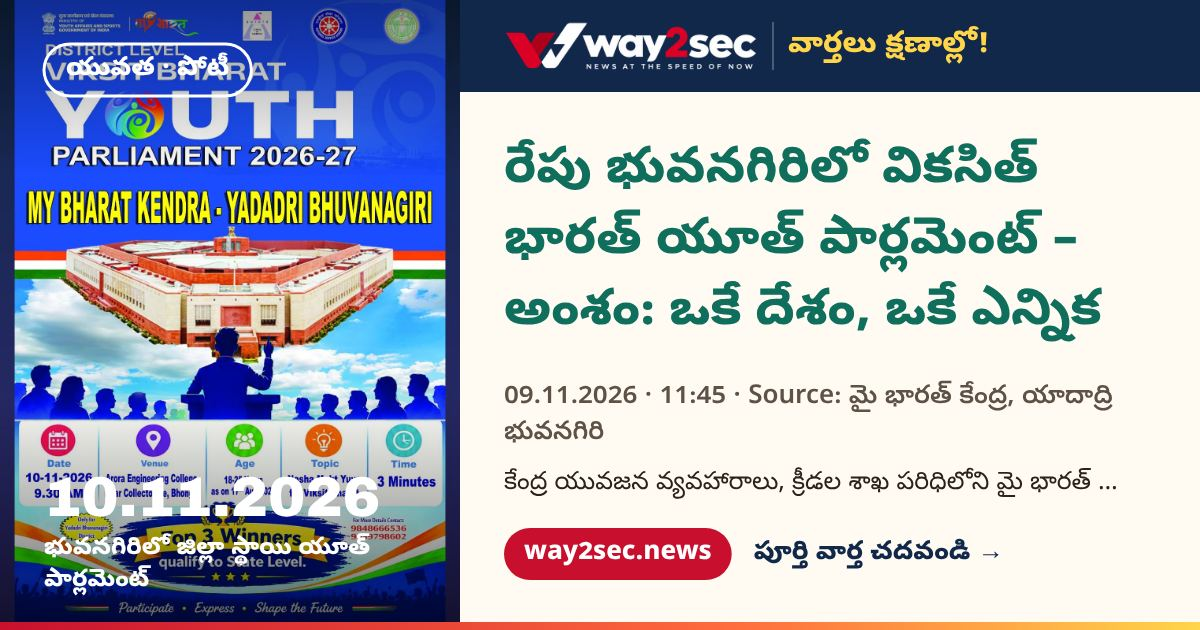
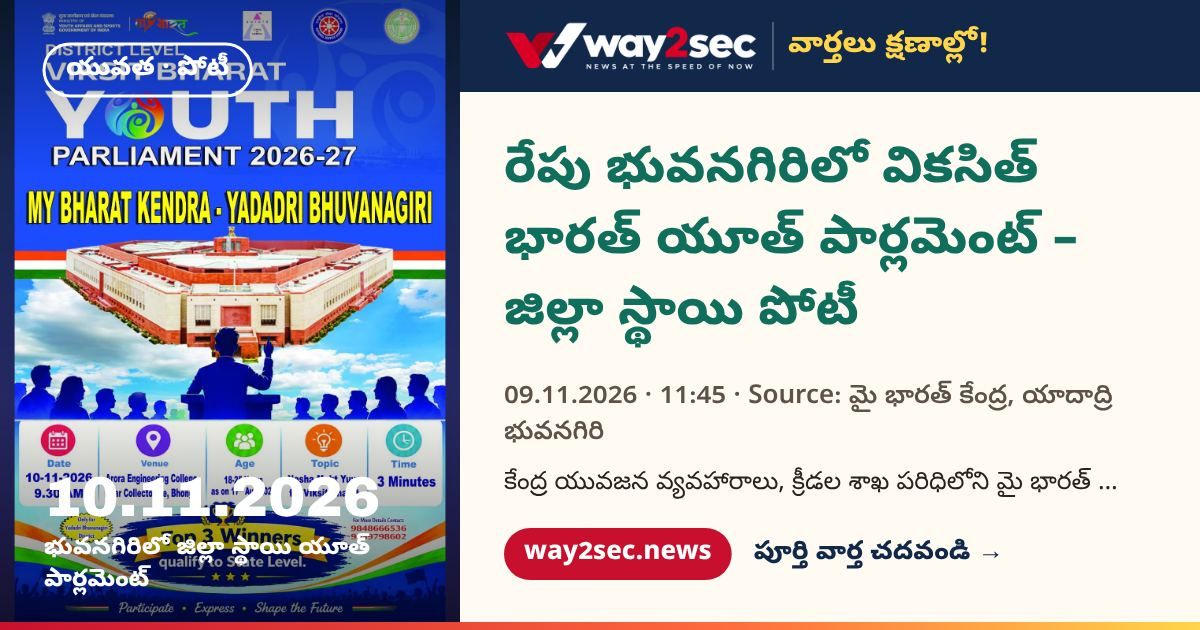
Youth Parliament: list both topics (One Nation One Election; Nasha Mukt Yuva for Viksit Bharat)
Claude-Session: https://claude.ai/code/session_018iQhkKZbEjnammo2CGfuLB

Changed region(s): [[0.4008, 0.4524, 0.925, 0.573]]

diff --git a/s/1nhx9ls.html b/s/1nhx9ls.html
@@ -1,16 +1,16 @@
 <!doctype html><html lang="te"><head><meta charset="utf-8">
 <meta name="viewport" content="width=device-width,initial-scale=1,viewport-fit=cover">
-<title>రేపు భువనగిరిలో వికసిత్ భారత్ యూత్ పార్లమెంట్ – అంశం: ఒకే దేశం, ఒకే ఎన్నిక | Way2Sec</title>
+<title>రేపు భువనగిరిలో వికసిత్ భారత్ యూత్ పార్లమెంట్ – జిల్లా స్థాయి పోటీ | Way2Sec</title>
 <meta name="description" content="కేంద్ర యువజన వ్యవహారాలు, క్రీడల శాఖ పరిధిలోని మై భారత్ కేంద్ర, యాదాద్రి భువనగిరి ఆధ్వర్యంలో జిల్లా స్థాయి వికసిత్ భారత్ యూత్ పార్లమెంట్ 2026-27 పోటీ మంగళవారం (1">
 <meta property="og:type" content="article"><meta property="og:site_name" content="Way2Sec News">
-<meta property="og:title" content="రేపు భువనగిరిలో వికసిత్ భారత్ యూత్ పార్లమెంట్ – అంశం: ఒకే దేశం, ఒకే ఎన్నిక">
+<meta property="og:title" content="రేపు భువనగిరిలో వికసిత్ భారత్ యూత్ పార్లమెంట్ – జిల్లా స్థాయి పోటీ">
 <meta property="og:description" content="కేంద్ర యువజన వ్యవహారాలు, క్రీడల శాఖ పరిధిలోని మై భారత్ కేంద్ర, యాదాద్రి భువనగిరి ఆధ్వర్యంలో జిల్లా స్థాయి వికసిత్ భారత్ యూత్ పార్లమెంట్ 2026-27 పోటీ మంగళవారం (1">
 <meta property="og:url" content="https://way2sec.news/s/1nhx9ls">
 <meta property="og:image" content="https://way2sec.news/cards/1nhx9ls.jpg"><meta property="og:image:secure_url" content="https://way2sec.news/cards/1nhx9ls.jpg"><meta property="og:image:type" content="image/jpeg"><meta property="og:image:width" content="1200"><meta property="og:image:height" content="630"><meta property="og:image" content="https://raw.githubusercontent.com/WAY2SEC/way2sec.github.io/main/cards/1nhx9ls.jpg">
 <meta name="twitter:card" content="summary_large_image"><meta name="twitter:image" content="https://raw.githubusercontent.com/WAY2SEC/way2sec.github.io/main/cards/1nhx9ls.jpg">
 <meta name="theme-color" content="#12284A"><link rel="icon" href="/favicon-48.png"><link rel="manifest" href="/manifest.webmanifest">
 <meta name="google-adsense-account" content="ca-pub-5189488674224327"><script async src="https://www.googletagmanager.com/gtag/js?id=G-2179H3TXWP"></script><script>window.dataLayer=window.dataLayer||[];function gtag(){dataLayer.push(arguments);}gtag('js',new Date());gtag('config','G-2179H3TXWP');</script><script async src="https://pagead2.googlesyndication.com/pagead/js/adsbygoogle.js?client=ca-pub-5189488674224327" crossorigin="anonymous"></script>
-<script type="application/ld+json">{"@context": "https://schema.org", "@type": "NewsArticle", "headline": "రేపు భువనగిరిలో వికసిత్ భారత్ యూత్ పార్లమెంట్ – అంశం: ఒకే దేశం, ఒకే ఎన్నిక", "image": ["https://raw.githubusercontent.com/WAY2SEC/way2sec.github.io/main/cards/1nhx9ls.jpg"], "datePublished": "2026-11-09T11:45:00+05:30", "dateModified": "2026-11-09T11:45:00+05:30", "inLanguage": "te", "author": {"@type": "Organization", "name": "Way2Sec", "url": "https://way2sec.news"}, "publisher": {"@type": "Organization", "name": "Way2Sec", "logo": {"@type": "ImageObject", "url": "https://way2sec.news/icon-512.png"}}, "mainEntityOfPage": "https://way2sec.news/s/1nhx9ls"}</script><script type="application/json" id="w2sTr">{"en": {"h": "Viksit Bharat Youth Parliament in Bhongir tomorrow – topic: One Nation, One Election", "p": "The district-level Viksit Bharat Youth Parliament 2026-27, organised by My Bharat Kendra, Yadadri Bhuvanagiri (Ministry of Youth Affairs and Sports), will be held on Tuesday (10.11.2026) at 9:30 am at Aurora Engineering College near the Collectorate, Bhongir. Topic: One Nation – One Election. Youth of Yadadri Bhuvanagiri district aged 18–25 (as on 17.08.2026) can take part. Each speaker gets 3 minutes; the top 3 winners qualify for the state level.", "pts": ["📅 10.11.2026, 9:30 am · 📍 Aurora Engineering College, near Collectorate, Bhongir", "🎤 Topic: One Nation – One Election · 3-minute speech", "👥 Age 18–25, Yadadri Bhuvanagiri district only · 🏆 Top 3 go to state level", "📞 98486 66536 · 90597 98602"], "why": "A chance for district youth to speak on national issues and reach the state level.", "cat": "Youth · Competition", "stat": "10.11.2026", "statl": "District-level Youth Parliament in Bhongir"}, "hi": {"h": "कल भुवनगिरि में विकसित भारत युवा संसद – विषय: एक राष्ट्र, एक चुनाव", "p": "युवा कार्यक्रम एवं खेल मंत्रालय के माय भारत केंद्र, यादाद्री भुवनगिरि की ओर से ज़िला स्तरीय विकसित भारत युवा संसद 2026-27 मंगलवार (10.11.2026) सुबह 9:30 बजे भुवनगिरि कलेक्टरेट के पास अरोरा इंजीनियरिंग कॉलेज में होगी। विषय: एक राष्ट्र – एक चुनाव। यादाद्री भुवनगिरि ज़िले के 18–25 वर्ष (17.08.2026 तक) के युवा भाग ले सकते हैं। हर वक्ता को 3 मिनट मिलेंगे; शीर्ष 3 विजेता राज्य स्तर पर जाएँगे।", "pts": ["📅 10.11.2026, सुबह 9:30 · 📍 अरोरा इंजीनियरिंग कॉलेज, कलेक्टरेट के पास, भुवनगिरि", "🎤 विषय: एक राष्ट्र – एक चुनाव · 3 मिनट का भाषण", "👥 आयु 18–25, केवल यादाद्री भुवनगिरि ज़िला · 🏆 शीर्ष 3 राज्य स्तर पर", "📞 98486 66536 · 90597 98602"], "why": "ज़िले के युवाओं के लिए राष्ट्रीय मुद्दों पर बोलने और राज्य स्तर तक पहुँचने का मौक़ा।", "cat": "युवा · प्रतियोगिता", "stat": "10.11.2026", "statl": "भुवनगिरि में ज़िला स्तरीय युवा संसद"}}</script>
+<script type="application/ld+json">{"@context": "https://schema.org", "@type": "NewsArticle", "headline": "రేపు భువనగిరిలో వికసిత్ భారత్ యూత్ పార్లమెంట్ – జిల్లా స్థాయి పోటీ", "image": ["https://raw.githubusercontent.com/WAY2SEC/way2sec.github.io/main/cards/1nhx9ls.jpg"], "datePublished": "2026-11-09T11:45:00+05:30", "dateModified": "2026-11-09T11:45:00+05:30", "inLanguage": "te", "author": {"@type": "Organization", "name": "Way2Sec", "url": "https://way2sec.news"}, "publisher": {"@type": "Organization", "name": "Way2Sec", "logo": {"@type": "ImageObject", "url": "https://way2sec.news/icon-512.png"}}, "mainEntityOfPage": "https://way2sec.news/s/1nhx9ls"}</script><script type="application/json" id="w2sTr">{"en": {"h": "Viksit Bharat Youth Parliament in Bhongir tomorrow – district-level competition", "p": "The district-level Viksit Bharat Youth Parliament 2026-27, organised by My Bharat Kendra, Yadadri Bhuvanagiri (Ministry of Youth Affairs and Sports), will be held on Tuesday (10.11.2026) at 9:30 am at Aurora Engineering College near the Collectorate, Bhongir. Topics: One Nation – One Election; Nasha Mukt Yuva for Viksit Bharat (drug-free youth). Youth of Yadadri Bhuvanagiri district aged 18–25 (as on 17.08.2026) can take part. Each speaker gets 3 minutes; the top 3 winners qualify for the state level.", "pts": ["📅 10.11.2026, 9:30 am · 📍 Aurora Engineering College, near Collectorate, Bhongir", "🎤 Topics: One Nation – One Election · Nasha Mukt Yuva for Viksit Bharat · 3-minute speech", "👥 Age 18–25, Yadadri Bhuvanagiri district only · 🏆 Top 3 go to state level", "📞 98486 66536 · 90597 98602"], "why": "A chance for district youth to speak on national issues and reach the state level.", "cat": "Youth · Competition", "stat": "10.11.2026", "statl": "District-level Youth Parliament in Bhongir"}, "hi": {"h": "कल भुवनगिरि में विकसित भारत युवा संसद – ज़िला स्तरीय प्रतियोगिता", "p": "युवा कार्यक्रम एवं खेल मंत्रालय के माय भारत केंद्र, यादाद्री भुवनगिरि की ओर से ज़िला स्तरीय विकसित भारत युवा संसद 2026-27 मंगलवार (10.11.2026) सुबह 9:30 बजे भुवनगिरि कलेक्टरेट के पास अरोरा इंजीनियरिंग कॉलेज में होगी। विषय: एक राष्ट्र – एक चुनाव; नशा मुक्त युवा फ़ॉर विकसित भारत। यादाद्री भुवनगिरि ज़िले के 18–25 वर्ष (17.08.2026 तक) के युवा भाग ले सकते हैं। हर वक्ता को 3 मिनट मिलेंगे; शीर्ष 3 विजेता राज्य स्तर पर जाएँगे।", "pts": ["📅 10.11.2026, सुबह 9:30 · 📍 अरोरा इंजीनियरिंग कॉलेज, कलेक्टरेट के पास, भुवनगिरि", "🎤 विषय: एक राष्ट्र – एक चुनाव · नशा मुक्त युवा फ़ॉर विकसित भारत · 3 मिनट का भाषण", "👥 आयु 18–25, केवल यादाद्री भुवनगिरि ज़िला · 🏆 शीर्ष 3 राज्य स्तर पर", "📞 98486 66536 · 90597 98602"], "why": "ज़िले के युवाओं के लिए राष्ट्रीय मुद्दों पर बोलने और राज्य स्तर तक पहुँचने का मौक़ा।", "cat": "युवा · प्रतियोगिता", "stat": "10.11.2026", "statl": "भुवनगिरि में ज़िला स्तरीय युवा संसद"}}</script>
 <style>
 @font-face{font-family:'W2S Display';src:url(/tools/fonts/ArchivoBlack-Regular.ttf) format('truetype');font-display:swap}
 :root{
@@ -311,12 +311,12 @@ table.jd th{width:34%;color:var(--muted);font-weight:800;background:var(--soft)}
     <div><div class="stat">10.11.2026</div><div class="statl">భువనగిరిలో జిల్లా స్థాయి యూత్ పార్లమెంట్</div></div></div>
   <div class="in">
     
-    <h1>రేపు భువనగిరిలో వికసిత్ భారత్ యూత్ పార్లమెంట్ – అంశం: ఒకే దేశం, ఒకే ఎన్నిక</h1>
+    <h1>రేపు భువనగిరిలో వికసిత్ భారత్ యూత్ పార్లమెంట్ – జిల్లా స్థాయి పోటీ</h1>
     <div class="meta"><span>09.11.2026</span><span class="dot"></span><span>11:45</span><span class="dot"></span><span>Source: మై భారత్ కేంద్ర, యాదాద్రి భువనగిరి</span></div>
-    <p class="alead">కేంద్ర యువజన వ్యవహారాలు, క్రీడల శాఖ పరిధిలోని మై భారత్ కేంద్ర, యాదాద్రి భువనగిరి ఆధ్వర్యంలో జిల్లా స్థాయి వికసిత్ భారత్ యూత్ పార్లమెంట్ 2026-27 పోటీ మంగళవారం (10.11.2026) ఉదయం 9:30కి భువనగిరి కలెక్టరేట్ దగ్గర ఉన్న అరోరా ఇంజినీరింగ్ కాలేజ్లో జరగనుంది. అంశం: ఒకే దేశం – ఒకే ఎన్నిక. 18–25 ఏళ్ల (17.08.2026 నాటికి) యాదాద్రి భువనగిరి జిల్లా యువత పాల్గొనవచ్చు. ఒక్కొక్కరికి 3 నిమిషాల ప్రసంగం; టాప్ 3 విజేతలు రాష్ట్ర స్థాయికి ఎంపికవుతారు.</p><ul class="pts"><li>📅 10.11.2026, ఉదయం 9:30 · 📍 అరోరా ఇంజినీరింగ్ కాలేజ్, కలెక్టరేట్ దగ్గర, భువనగిరి</li><li>🎤 అంశం: ఒకే దేశం – ఒకే ఎన్నిక · ప్రసంగం 3 నిమిషాలు</li><li>👥 18–25 ఏళ్లు, యాదాద్రి భువనగిరి జిల్లా వారికి మాత్రమే · 🏆 టాప్ 3 రాష్ట్ర స్థాయికి</li><li>📞 98486 66536 · 90597 98602</li></ul><p class="why"><small>ఇది ఎందుకు ముఖ్యం?</small>జిల్లా యువత దేశ సమస్యలపై మాట్లాడి రాష్ట్ర స్థాయికి వెళ్లే అవకాశం.</p>
+    <p class="alead">కేంద్ర యువజన వ్యవహారాలు, క్రీడల శాఖ పరిధిలోని మై భారత్ కేంద్ర, యాదాద్రి భువనగిరి ఆధ్వర్యంలో జిల్లా స్థాయి వికసిత్ భారత్ యూత్ పార్లమెంట్ 2026-27 పోటీ మంగళవారం (10.11.2026) ఉదయం 9:30కి భువనగిరి కలెక్టరేట్ దగ్గర ఉన్న అరోరా ఇంజినీరింగ్ కాలేజ్లో జరగనుంది. అంశాలు: ఒకే దేశం – ఒకే ఎన్నిక; నషా ముక్త్ యువ ఫర్ వికసిత్ భారత్ (మత్తు రహిత యువత). 18–25 ఏళ్ల (17.08.2026 నాటికి) యాదాద్రి భువనగిరి జిల్లా యువత పాల్గొనవచ్చు. ఒక్కొక్కరికి 3 నిమిషాల ప్రసంగం; టాప్ 3 విజేతలు రాష్ట్ర స్థాయికి ఎంపికవుతారు.</p><ul class="pts"><li>📅 10.11.2026, ఉదయం 9:30 · 📍 అరోరా ఇంజినీరింగ్ కాలేజ్, కలెక్టరేట్ దగ్గర, భువనగిరి</li><li>🎤 అంశాలు: ఒకే దేశం – ఒకే ఎన్నిక · నషా ముక్త్ యువ ఫర్ వికసిత్ భారత్ · ప్రసంగం 3 నిమిషాలు</li><li>👥 18–25 ఏళ్లు, యాదాద్రి భువనగిరి జిల్లా వారికి మాత్రమే · 🏆 టాప్ 3 రాష్ట్ర స్థాయికి</li><li>📞 98486 66536 · 90597 98602</li></ul><p class="why"><small>ఇది ఎందుకు ముఖ్యం?</small>జిల్లా యువత దేశ సమస్యలపై మాట్లాడి రాష్ట్ర స్థాయికి వెళ్లే అవకాశం.</p>
     <p class="src">మూలం: మై భారత్ కేంద్ర, యాదాద్రి భువనగిరి</p>
     <div class="acts">
-      <a class="cta wa" href="https://wa.me/?text=%E0%B0%B0%E0%B1%87%E0%B0%AA%E0%B1%81%20%E0%B0%AD%E0%B1%81%E0%B0%B5%E0%B0%A8%E0%B0%97%E0%B0%BF%E0%B0%B0%E0%B0%BF%E0%B0%B2%E0%B1%8B%20%E0%B0%B5%E0%B0%BF%E0%B0%95%E0%B0%B8%E0%B0%BF%E0%B0%A4%E0%B1%8D%20%E0%B0%AD%E0%B0%BE%E0%B0%B0%E0%B0%A4%E0%B1%8D%20%E0%B0%AF%E0%B1%82%E0%B0%A4%E0%B1%8D%20%E0%B0%AA%E0%B0%BE%E0%B0%B0%E0%B1%8D%E0%B0%B2%E0%B0%AE%E0%B1%86%E0%B0%82%E0%B0%9F%E0%B1%8D%20%E2%80%93%20%E0%B0%85%E0%B0%82%E0%B0%B6%E0%B0%82%3A%20%E0%B0%92%E0%B0%95%E0%B1%87%20%E0%B0%A6%E0%B1%87%E0%B0%B6%E0%B0%82%2C%20%E0%B0%92%E0%B0%95%E0%B1%87%20%E0%B0%8E%E0%B0%A8%E0%B1%8D%E0%B0%A8%E0%B0%BF%E0%B0%95%0Ahttps%3A//way2sec.news/s/1nhx9ls" target="_blank" rel="noopener">WhatsAppలో షేర్ చేయండి</a>
+      <a class="cta wa" href="https://wa.me/?text=%E0%B0%B0%E0%B1%87%E0%B0%AA%E0%B1%81%20%E0%B0%AD%E0%B1%81%E0%B0%B5%E0%B0%A8%E0%B0%97%E0%B0%BF%E0%B0%B0%E0%B0%BF%E0%B0%B2%E0%B1%8B%20%E0%B0%B5%E0%B0%BF%E0%B0%95%E0%B0%B8%E0%B0%BF%E0%B0%A4%E0%B1%8D%20%E0%B0%AD%E0%B0%BE%E0%B0%B0%E0%B0%A4%E0%B1%8D%20%E0%B0%AF%E0%B1%82%E0%B0%A4%E0%B1%8D%20%E0%B0%AA%E0%B0%BE%E0%B0%B0%E0%B1%8D%E0%B0%B2%E0%B0%AE%E0%B1%86%E0%B0%82%E0%B0%9F%E0%B1%8D%20%E2%80%93%20%E0%B0%9C%E0%B0%BF%E0%B0%B2%E0%B1%8D%E0%B0%B2%E0%B0%BE%20%E0%B0%B8%E0%B1%8D%E0%B0%A5%E0%B0%BE%E0%B0%AF%E0%B0%BF%20%E0%B0%AA%E0%B1%8B%E0%B0%9F%E0%B1%80%0Ahttps%3A//way2sec.news/s/1nhx9ls" target="_blank" rel="noopener">WhatsAppలో షేర్ చేయండి</a>
       <button class="cta ghost" type="button" id="listen">🔊 తెలుగులో వినండి</button>
       <a class="cta ghost" href="/?d=2026-11-09&amp;s=1nhx9ls">📱 కార్డుల్లో చూడండి</a>
     </div>

diff --git a/s/5yhoq5.html b/s/5yhoq5.html
@@ -343,7 +343,7 @@ table.jd th{width:34%;color:var(--muted);font-weight:800;background:var(--soft)}
   <div class="rbox rqr"><h4>📲 Way2Sec ఛానెల్</h4><img src="/qr.png" alt="Way2Sec WhatsApp ఛానెల్ QR"><p>స్కాన్ చేసి ప్రతి 30 నిమిషాలకు వార్తలు పొందండి</p></div>
 </aside>
 </div>
-<section class="sec"><div class="sh"><h2>ఇవి కూడా చదవండి</h2></div><div class="grid"><a class="card" href="/s/1nhx9ls" style="--hl:var(--c-job);--hlink:var(--c-job)"><div class="pnl"><img class="ph" style="object-position:50% 30%" src="/photos/2026-11-09-youth-parliament-bhongir.jpg" alt="" loading="lazy" decoding="async"><i class="phs"></i><span class="chip">యువత · పోటీ</span><div class="stat">10.11.2026</div></div><div class="bd"><h3>రేపు భువనగిరిలో వికసిత్ భారత్ యూత్ పార్లమెంట్ – అంశం: ఒకే దేశం, ఒకే ఎన్నిక</h3><div class="m">మై భారత్ కేంద్ర, యాదాద్రి భువనగిరి · 09.11.2026</div></div></a><a class="card" href="/s/1vztbe5" style="--hl:var(--c-money);--hlink:var(--c-money)"><div class="pnl"><svg xmlns="http://www.w3.org/2000/svg" class="scene" viewBox="0 0 400 200" preserveAspectRatio="xMidYMax meet" fill="#fff" aria-hidden="true">
+<section class="sec"><div class="sh"><h2>ఇవి కూడా చదవండి</h2></div><div class="grid"><a class="card" href="/s/1nhx9ls" style="--hl:var(--c-job);--hlink:var(--c-job)"><div class="pnl"><img class="ph" style="object-position:50% 30%" src="/photos/2026-11-09-youth-parliament-bhongir.jpg" alt="" loading="lazy" decoding="async"><i class="phs"></i><span class="chip">యువత · పోటీ</span><div class="stat">10.11.2026</div></div><div class="bd"><h3>రేపు భువనగిరిలో వికసిత్ భారత్ యూత్ పార్లమెంట్ – జిల్లా స్థాయి పోటీ</h3><div class="m">మై భారత్ కేంద్ర, యాదాద్రి భువనగిరి · 09.11.2026</div></div></a><a class="card" href="/s/1vztbe5" style="--hl:var(--c-money);--hlink:var(--c-money)"><div class="pnl"><svg xmlns="http://www.w3.org/2000/svg" class="scene" viewBox="0 0 400 200" preserveAspectRatio="xMidYMax meet" fill="#fff" aria-hidden="true">
     <g opacity=".35"><path d="M0 170c80-20 160-24 240-14s120 10 160 4v40H0z"/></g>
     <g>
       <path d="M70 200v-36h52v36z"/><path d="M62 166l34-30 34 30z"/>
